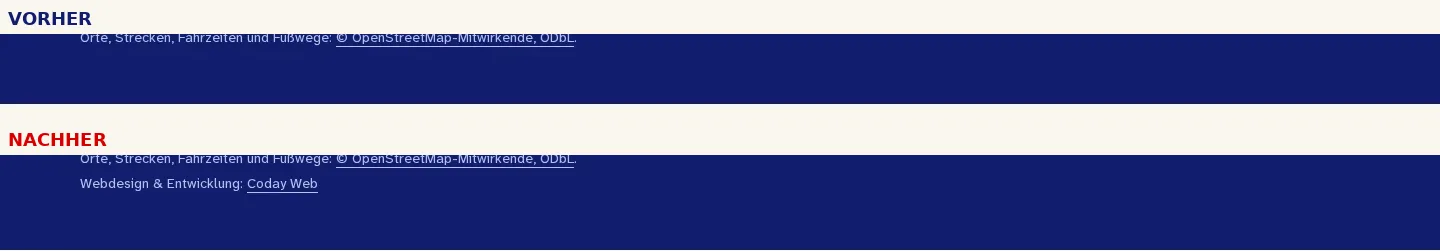
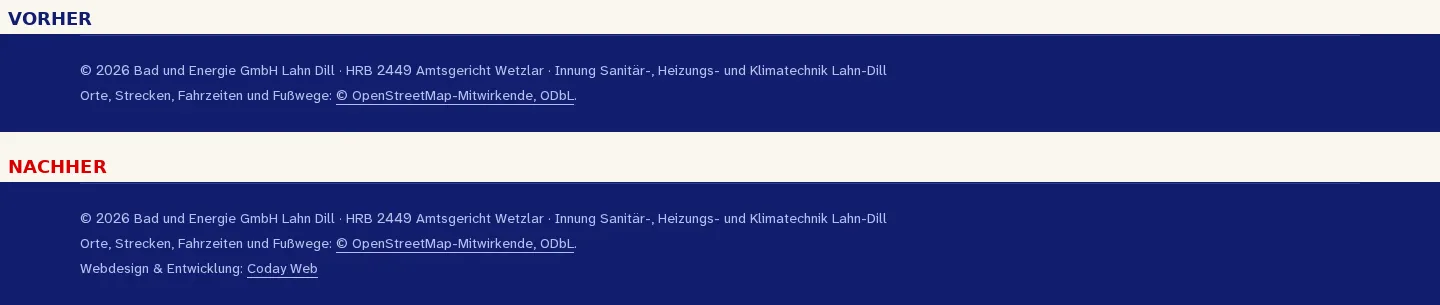
Nennung E3: Bericht, Linkregister und Referenz-Entwurf, Bildausschnitte hell berichtigt (E3-DOKUMENTAR-01)
Claude-Session: https://claude.ai/code/session_01KpK9Pby9pZGE4txL2MQ4RC

diff --git a/_werkstatt/nennung/REFERENZ.md b/_werkstatt/nennung/REFERENZ.md
@@ -1,0 +1,67 @@
+# Referenz-Entwurf: Karriereseite für die Bad und Energie GmbH
+
+ENTWURF, Stand 16.10.2026. Nur aus Belegen im Repository. Die Fundstellen stehen in Klammern, Pfade ab dem Projektordner. Nicht veröffentlichen, bevor die offenen Fragen in Abschnitt 9 geklärt sind.
+
+## 1. Kurzfassung
+- Kunde: Bad und Energie GmbH Lahn Dill, SHK-Meisterbetrieb in Wetzlar, seit 1926 (lib/content/facts.ts:90-91; README.md, Kopf).
+- Projekt: Karriereseite karriere.bad-energie.de mit offenen Stellen, Einsatzgebiet und einem Bewerbungsablauf (README.md, Kopf und Abschnitt 1).
+- Leistung: Webdesign & Entwicklung (Auftrag Abschnitt 0, Standardwert LEISTUNG). Das Repository nennt Coday Web nirgends (berichte/E0-KUNDSCHAFTER-01.md, Punkt 11). Die Angabe stammt aus dem Auftrag.
+- Verhältnis: Coday Web arbeitet im Auftrag der Bad und Energie GmbH (_werkstatt/nennung/ENTSCHEIDUNGEN.md, N-02).
+
+## 2. Technik
+- Next.js 16 mit App Router und Server Components, React 19, TypeScript, Tailwind CSS 4 (package.json; README.md, Kopf).
+- Hosting auf Vercel, Region fra1 (vercel.json; README.md, Kopf).
+- Bewerbungsdaten: Supabase-Datenbank in Frankfurt, Versand über Resend (README.md, Kopf).
+- Startseite und die meisten Seiten werden vorab erzeugt und stündlich neu erstellt (app/page.tsx:24, `revalidate = 3600`). Die Bewerbungsseite wird bei jedem Aufruf erzeugt (app/bewerbung/page.tsx:59-60, liest die Suchparameter).
+- Automatische Prüfungen im Projekt: Vitest, Playwright mit axe (README.md, Kopf; package.json, Skripte test und e2e).
+
+## 3. Seiten
+- Startseite, Stellenübersicht /jobs, 8 Stellenseiten. Alle 8 haben den Status „published“ (lib/jobs/data/*.ts). Titel wörtlich: „Anlagenmechaniker SHK für Wärmepumpen & Heizungstechnik (m/w/d)“; „Ausbildung zum Anlagenmechaniker SHK (m/w/d)“ (zweimal, eine Datei für 2027); „Bürofachkraft (m/w/d) in Voll- oder Teilzeit“; „Kundendiensttechniker SHK / Servicemonteur (m/w/d)“; „Obermonteur / Projektleiter SHK & Badsanierung (m/w/d)“; „Quereinsteiger und Montagehelfer SHK (m/w/d)“; „Schülerpraktikum Anlagenmechaniker SHK (m/w/d)“.
+- Einsatzgebiet: 54 Orte im 35-km-Gebiet und 4 Kreisseiten (README.md, Routentabelle).
+- Themenseiten „Arbeiten bei uns“: 6 Themen (lib/themen/registry.ts:43-48). Die README nennt fünf; gültig ist der Code.
+- Bewerbungsablauf /bewerbung, Bestätigung /bewerbung/danke, Bewerbungsmappe /bewerbung/mappe, Impressum, Datenschutz (README.md, Routentabelle; app/bewerbung/mappe/page.tsx).
+- Prüflauf: 84 Seiten geprüft, davon 81 mit Status 200, 2 Weiterleitungen, 1 Fehlerseite (protokolle/links.md; Messart: Linkprüfer mit Standard- und Googlebot-Abruf, Stand b0ae185).
+
+## 4. Sprachen
+- Eine Sprachfassung: Deutsch (app/layout.tsx:80, `lang="de"`). Keine weiteren Sprachfassungen, keine Übersetzung.
+
+## 5. Funktionen
+- Bewerbung in einem Ablauf: ein paar Fragen zum Antippen, Name und Telefon, kein Lebenslauf nötig (README.md, Kopf).
+- Die Seite nennt die Bewerbung „ca. 60 Sekunden“ (lib/content/facts.ts:211-216). Nicht gemessen, siehe Abschnitt 9.
+- Stellen-Feeds für Jobbörsen: indeed.xml, jobs.xml und jobs.json, stündlich neu (README.md, Routentabelle).
+- Suchmaschinen: Sitemap, llms.txt, Strukturdaten je Seite (JSON-LD), Meldung von Adressen an IndexNow (README.md, Routentabelle; components/site/site-jsonld.ts).
+- Google-Karte erst nach dem Klick des Besuchers (lib/maps/consent.ts:1-8).
+- Bestätigungsseite mit Bewerbungsnummer und Kontaktdatei zum Speichern (.vcf) (README.md, Routentabelle; components/apply/thanks/DankeErfolg.tsx:121).
+- Bewerbungsmappe als A4-Vorschau zum Speichern als PDF oder Drucken, freiwillig (app/bewerbung/mappe/page.tsx:15).
+- Keine KI-Funktionen, keine Tracking-Cookies, keine Fotos (README.md, Kopf). Auf der Bewerbungsseite werden UTM-Parameter und ref erfasst, ohne Cookie (README.md, Routentabelle /bewerbung; components/analytics/AttributionCapture.tsx).
+
+## 6. Bildmotive (Vorschläge)
+Es gibt keine Fotos. Die Motive sind die technischen Zeichnungen aus dem Code.
+- Vorschlag 1: Hausschnitt mit Wärmepumpe. Außeneinheit, Erdleitung und Heizkörper im Schnitt durch das Haus, 1 Einheit = 10 mm. Das Innengerät ist nur ein Symbol, das Modell ist offen. Das ist der Einstieg der Startseite (components/home/einstieg/Szene.tsx:20; lib/zeichnung/szenen/hausschnitt.ts, Kopf).
+- Vorschlag 2: Wärmefeld in Ebenen (components/zeichnung/waerme/Waermefeld.tsx).
+- Vorschlag 3: Kältekreis (lib/zeichnung/szenen/kaeltekreis.ts).
+- Vorschlag 4: Servicefahrzeug (lib/zeichnung/szenen/fahrzeug.ts). Es ist ein allgemeiner Kastenwagen mit geschätzten Maßen, kein Fahrzeug des Betriebs (Kopf der Datei). Vor einer Verwendung als Bild für den Kunden klären.
+- Nicht als Motiv verwenden, bis die Herkunft geklärt ist: Logos, Cursor, Icons (_werkstatt/nennung/MENSCHEN.md, Abschnitt 3).
+
+## 7. Messwerte
+Messungen am lokalen Produktions-Build, nicht an der Live-Seite. Vor einer Veröffentlichung an der Live-Seite prüfen.
+- Startseite, 1440 × 900: 38 Anfragen, wie vor der Nennung. 540,5 KB komprimiert übertragen. Messart: Browser-Protokoll (Chrome DevTools), Median aus 3 Läufen (_werkstatt/nennung/protokolle/leistung.md).
+- Startseite: Layoutverschiebung 0,0000 in 3 Läufen. Messart: Layout-Shift-Messung 5 Sekunden nach dem Laden (protokolle/leistung.md).
+- Barrierefreiheit im Fuß: 0 Befunde in 12 Prüfungen. Messart: axe, WCAG 2.2 AA (protokolle/zugang.md).
+- Nicht als Stärke verwenden: Lighthouse-Leistung der Startseite 0,93 gegen Mindestwert 0,95, Stand a4491d5, Warnung in allen 3 Läufen (berichte/E0-PRUEFER-02.md, Punkt 4).
+
+## 8. Was wir nicht behaupten
+- Keine Auszeichnungen. Die „Partnerurkunde 2026“ in lib/data/company.ts:69 ist im Repository nicht belegt (MENSCHEN.md, Abschnitt 3).
+- Keine Zahlen zu Bewerbungen oder Besetzungen. Im Repository ist dazu nichts belegt.
+- Keine Superlative.
+
+## 9. OFFENE FRAGEN
+1. Zustimmung der Bad und Energie GmbH, dass sie mit Namen, Bildern und Beschreibung als Referenz auf codayweb.de steht. Liegt nicht vor. MENSCHEN.md deckt nur die Nennung im Fuß ab.
+2. Kundenstimme: Im Repository gibt es kein Zitat über Coday. Die „Stimmen von Kunden und Team“ auf der Kundenseite (components/home/betrieb/betrieb-text.ts:78) gehören zum Betrieb und sind keine Aussage über Coday.
+3. Geschäftsergebnisse: Im Repository sind keine Zahlen belegt. Zahlen nur mit Messart und Zustimmung des Kunden, sonst weglassen.
+4. „ca. 60 Sekunden“ für eine Bewerbung ist eine Angabe im Code (lib/content/facts.ts:211-216, Quelle laut Eintrag app/page.tsx@393df01) und nicht gemessen.
+5. Lighthouse-Warnung (0,93 gegen 0,95, Stand a4491d5): Ob sie inzwischen behoben ist, ist nicht gemessen.
+6. Die Leistung „Webdesign & Entwicklung“ und die Aussage „gebaut von Coday Web“ stammen nur aus dem Auftrag. Bestätigung durch den Inhaber nötig.
+7. Bildrechte: Herkunft von Logos, Cursor, favicon und Icons ist im Repository nicht belegt (MENSCHEN.md, Abschnitt 3).
+8. Linkziel: LINKZIEL ist nicht gesetzt, es gilt die Startseite codayweb.de/de. Gibt es eine eigene Referenzseite, die als Linkziel dienen soll? Dann ändert sich der Auftrag, Abschnitt 0.
+9. Die README nennt fünf Themen, der Code sechs (lib/themen/registry.ts:43-48). Diese Abweichung betrifft nur die Dokumentation des Kunden.

diff --git a/_werkstatt/nennung/BERICHT.md b/_werkstatt/nennung/BERICHT.md
@@ -1,0 +1,39 @@
+# Bericht: Die Agentur-Nennung im Fuß
+
+Stand 16.10.2026. Die Prüfprotokolle liegen in `_werkstatt/nennung/protokolle/`.
+
+## 1. Was sich sichtbar ändert
+- Unten auf jeder Seite steht als letzte Zeile unter der OpenStreetMap-Zeile: „Webdesign & Entwicklung: Coday Web“. Nur „Coday Web“ ist ein Link.
+- Bilder: `/home/user/Bad-und-Energie-Bewerbung/_werkstatt/nennung/bilder/auswahl/` (8 Bilder, vorher und nachher, Startseite und Stellenübersicht, Handy und Computer, hell und dunkel).
+- Live siehst du es auf karriere.bad-energie.de, sobald der Stand gepusht ist.
+- Im Code: neue Dateien `components/site/fuss/AgenturNennung.tsx`, `AgenturLink.tsx`, `agentur.ts`, dazu kleine Ergänzungen in `FussVoll.tsx`, `FussSchmal.tsx`, `fuss.module.css` und `site-jsonld.ts` (unsichtbar: „Ersteller: Coday Web“ für Suchmaschinen).
+
+## 2. Welcher Link gefolgt ist und warum
+- Nur die Startseite. Sie gibt Suchmaschinen eine Empfehlung weiter.
+- Auf allen anderen Seiten steht „nofollow“. Dort zählt die Empfehlung nicht. Grund: Ein Link auf jeder Seite sieht für Google aus wie gekaufte Werbung und kann als Linkspam gelten.
+- Ziel ist https://www.codayweb.de/de. Das ist die Standardeinstellung, weil keine eigene Referenzseite festgelegt wurde.
+- Der Link öffnet in einem neuen Tab. Beim Klick erfährt die Agentur, von welcher Seite der Besucher kommt.
+
+## 3. Wie du dem Kunden die Nennung zeigst
+- Mit den Bildern aus Abschnitt 1 und der Live-Seite.
+- Die Zustimmung liegt laut deiner Entscheidung vor. Für die schriftliche Bestätigung gibt es einen Textvorschlag in `_werkstatt/nennung/MENSCHEN.md`, Abschnitt 1.
+- Es lädt nichts von unserem Server: kein Bild, kein Skript, keine Schrift.
+
+## 4. Übernahme und Rückweg
+- Die Änderung liegt schon lokal auf `main`, in 9 Schritten (Commits, davon 2 mit Code-Änderungen), noch nicht gepusht. Mit dem Push geht sie sofort live, denn `main` wird über Vercel veröffentlicht.
+- Gepusht wird erst, wenn die Prüfung grün ist. Stand heute: 0 von 10 Abnahme-Kriterien erfüllt.
+- Der Ordner `_werkstatt` ist über `.vercelignore` von der Veröffentlichung ausgenommen (Commit b0ae185). Er bleibt im Repository. Löschen ist möglich, ist aber nicht geschehen. Das entscheidest du.
+- Der Arbeitsblock in `CLAUDE.md` (zwischen NENNUNG-ANFANG und NENNUNG-ENDE) wird beim Abschluss entfernt.
+- Rückweg: `git revert 66d8d99 b0ae185`, dann pushen. Danach ist die Nennung wieder weg. Alternativ setzt du in Vercel den Stand von vor der Nennung (Commit a4491d5) wieder als live.
+
+## 5. Was du nach dem Livegang prüfst
+- In der Search Console von codayweb.de: Nach einigen Wochen unter „Links“ nachsehen, ob karriere.bad-energie.de als verweisende Seite auftaucht.
+- In der Search Console des Kunden: Nach einigen Wochen prüfen, dass keine neuen Probleme gemeldet werden. Dafür braucht ihr dort Zugang, das klärst du mit dem Kunden.
+
+## 6. Stand und was offen ist
+- Grün geprüft: Die Startseite ist für Google offen, der Link stimmt, die Browser-Konsole zeigt keine Fehler, die Seite lädt mit gleich vielen Anfragen (38) wie vorher, und im Fuß gibt es keine Befunde bei der automatischen Barrierefreiheits-Prüfung.
+- Offen: die Nachprüfung nach der Änderung am Linktext und die volle Prüfung des Standes vor dem Push.
+- Deine Entscheidungen:
+  - Soll `_werkstatt` im Repository bleiben oder vor dem Push gelöscht werden?
+  - Soll der Link auch auf der Startseite keine Empfehlung mehr weitergeben („nofollow“)?
+  - Bei jedem Seitenwechsel im Browser springt die Schutzangabe des Links einmal um und stimmt danach mit der neuen Seite überein. Ist das für dich in Ordnung?

diff --git a/_werkstatt/nennung/LINKREGISTER.md b/_werkstatt/nennung/LINKREGISTER.md
@@ -1,0 +1,3 @@
+| Datum | Kundendomain | Quellseiten | Linkziele | Anker | Linkmodell | rel auf Quellseite und übrigen Seiten | Änderungs-Commits | Status |
+|---|---|---|---|---|---|---|---|---|
+| 16.10.2026 | karriere.bad-energie.de (Bad und Energie GmbH) | / (Startseite, einzige Sprachfassung Deutsch) | https://www.codayweb.de/de (Standard, LINKZIEL nicht gesetzt) | Coday Web | Startseite; GEGENLEISTUNG nein (Auftrag Abschnitt 0, ENTSCHEIDUNGEN N-04) | Quellseite /: noopener, ohne nofollow; übrige Seiten: nofollow noopener; target _blank, nie noreferrer (N-04, protokolle/links.md) | b0ae185, 66d8d99 | auf main, live mit dem Push vom 16.10.2026 (Stand beim Schreiben: noch nicht gepusht, 9 Commits voraus; Abnahme 0 von 10 Kriterien offen; ENTSCHEIDUNGEN N-02, git status) |
